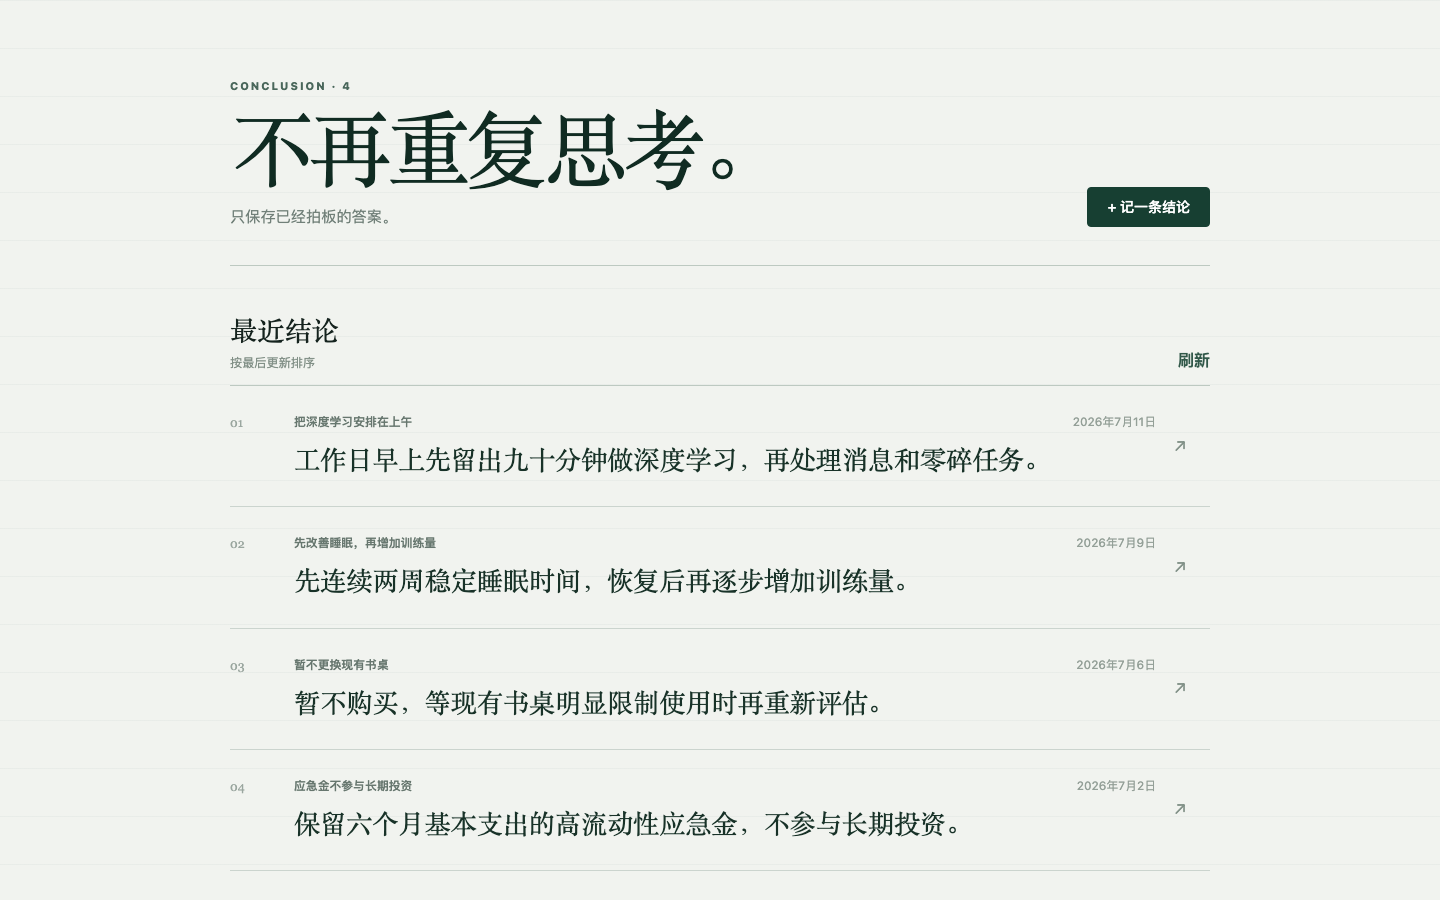
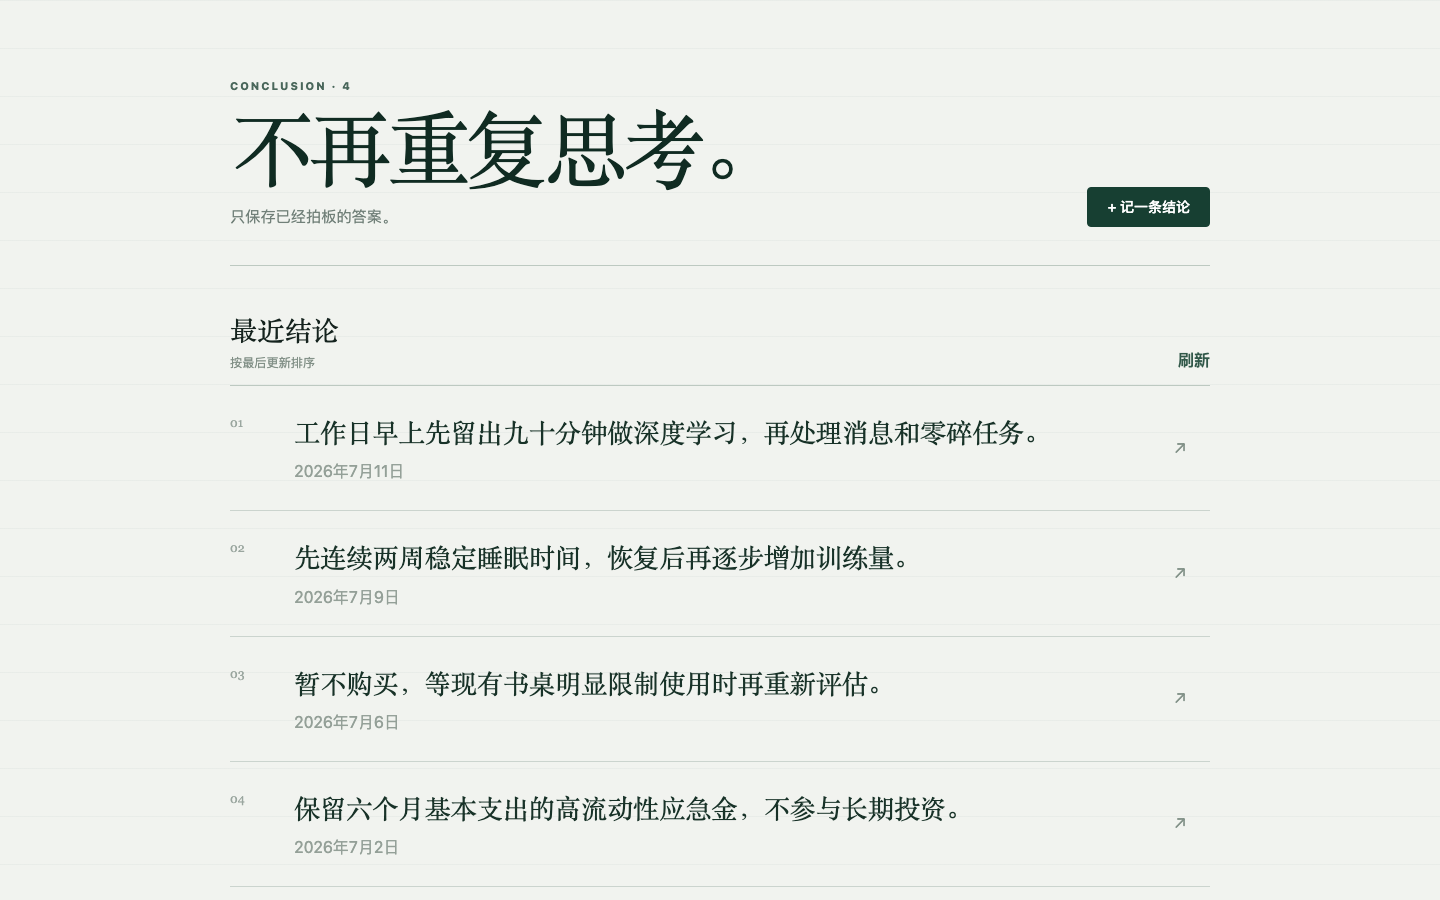
Merge title into conclusion

diff --git a/frontend/src/style.css b/frontend/src/style.css
@@ -175,7 +175,7 @@ textarea {
 }
 
 .decision-statement {
-  margin: 10px 0 0;
+  margin: 0 0 9px;
   color: #183228;
   font-family: Georgia, "Songti SC", serif;
   font-size: clamp(1.22rem, 2.7vw, 1.65rem);
@@ -279,22 +279,9 @@ textarea {
   letter-spacing: -0.035em;
 }
 
-.decision-hero {
-  padding: 22px 0 30px;
-  border-bottom: 1px solid var(--line);
-}
-
-.detail-decision {
-  margin: 0;
-  color: #496158;
-  font-size: clamp(1.1rem, 2.4vw, 1.35rem);
-  font-weight: 550;
-  line-height: 1.65;
-  white-space: pre-wrap;
-}
-
 .markdown-detail {
-  padding: 38px 0 44px;
+  padding: 24px 0 44px;
+  border-top: 1px solid var(--line);
 }
 
 .markdown-detail .md-editor-preview-wrapper {
@@ -820,10 +807,6 @@ textarea {
   .detail-card,
   .form-card {
     padding: 30px 22px;
-  }
-
-  .detail-decision {
-    font-size: 1.05rem;
   }
 
   .question-section,

diff --git a/frontend/src/pages/FormPage.vue b/frontend/src/pages/FormPage.vue
@@ -30,7 +30,7 @@ const form = reactive<ConclusionInput>({
 })
 
 function applyRecord(record: ConclusionInput & { updatedAt: string }) {
-  form.title = record.title
+  form.title = record.conclusion
   form.question = record.question
   form.conclusion = record.conclusion
   form.reason = record.reason
@@ -59,8 +59,7 @@ async function load() {
 
 function validate(): boolean {
   const required: Array<[string, string]> = [
-    [form.title, '请填写标题'],
-    [form.conclusion, '请填写最终结论'],
+    [form.conclusion, '请填写结论'],
     [form.reason, '请填写详细说明'],
   ]
   const missing = required.find(([value]) => !value.trim())
@@ -78,7 +77,9 @@ async function save() {
   try {
     const payload = {
       ...form,
-      question: form.question.trim() || form.title.trim(),
+      title: form.conclusion.trim(),
+      conclusion: form.conclusion.trim(),
+      question: form.question.trim() || form.conclusion.trim(),
       category: form.category.trim() || '其他',
       tags: [...form.tags],
     }
@@ -120,7 +121,7 @@ onMounted(load)
         <div>
           <p class="section-kicker">{{ isEdit ? 'EDIT CONCLUSION' : 'NEW CONCLUSION' }}</p>
           <h1>{{ isEdit ? '编辑结论' : '记下一个答案' }}</h1>
-          <p>一句话说清答案，需要时再补充 Markdown 说明。</p>
+          <p>先写下已经拍板的答案，需要时再补充 Markdown 说明。</p>
         </div>
         <el-button type="primary" size="large" :loading="saving" @click="save">
           {{ isEdit ? '保存修改' : '保存结论' }}
@@ -153,12 +154,7 @@ onMounted(load)
 
         <section class="simple-fields">
           <label>
-            <span>标题</span>
-            <el-input v-model="form.title" maxlength="160" placeholder="例如：衣服材质购买原则" />
-          </label>
-
-          <label>
-            <span>一句话结论</span>
+            <span>结论</span>
             <el-input
               v-model="form.conclusion"
               maxlength="280"

diff --git a/frontend/src/pages/DetailPage.vue b/frontend/src/pages/DetailPage.vue
@@ -50,7 +50,7 @@ async function deleteCurrentConclusion() {
 
   try {
     await ElMessageBox.confirm(
-      `删除「${record.value.title}」后无法恢复。`,
+      `删除「${record.value.conclusion}」后无法恢复。`,
       '确认删除这条结论？',
       {
         confirmButtonText: '删除',
@@ -116,11 +116,7 @@ onMounted(load)
     />
 
     <article v-else-if="record" class="detail-card" data-testid="conclusion-detail">
-      <h1>{{ record.title }}</h1>
-
-      <section class="decision-hero">
-        <p class="detail-decision">{{ record.conclusion }}</p>
-      </section>
+      <h1>{{ record.conclusion }}</h1>
 
       <section class="markdown-detail">
         <MarkdownContent :content="details" preview-id="conclusion-detail-markdown" />

diff --git a/frontend/src/pages/ListPage.vue b/frontend/src/pages/ListPage.vue
@@ -88,11 +88,8 @@ onMounted(load)
         >
           <span class="decision-index">{{ String(index + 1).padStart(2, '0') }}</span>
           <div class="decision-body">
-            <div class="card-meta">
-              <span>{{ item.title }}</span>
-              <span class="updated-at">{{ formatDate(item.updatedAt) }}</span>
-            </div>
             <p class="decision-statement">{{ item.conclusion }}</p>
+            <span class="updated-at">{{ formatDate(item.updatedAt) }}</span>
           </div>
           <span class="row-arrow" aria-hidden="true">↗</span>
         </article>

diff --git a/frontend/src/conclusionMarkdown.test.ts b/frontend/src/conclusionMarkdown.test.ts
@@ -52,7 +52,7 @@ describe('conclusion Markdown detail', () => {
       conclusionMarkdown(
         {
           ...record,
-          question: record.title,
+          question: record.conclusion,
           tradeoffs: '',
           conditions: '',
           decisionAnalysis: { version: 1, models: [] },

diff --git a/frontend/src/conclusionMarkdown.ts b/frontend/src/conclusionMarkdown.ts
@@ -6,7 +6,7 @@ export function conclusionMarkdown(
 ): string {
   const sections = [record.reason.trim()]
 
-  if (record.question.trim() && record.question.trim() !== record.title.trim()) {
+  if (record.question.trim() && record.question.trim() !== record.conclusion.trim()) {
     sections.push(`## 原始问题\n\n${record.question.trim()}`)
   }
   if (record.tradeoffs.trim()) {

diff --git a/README.md b/README.md
@@ -2,7 +2,7 @@
 
 Conclusion 是一个个人决策知识库，用来保存“已经想清楚的最终结论”。当自己或 AI 再次遇到相似问题时，可以直接复用已有决定、理由、取舍和适用条件，而不是从聊天记录中重新寻找或再次分析。
 
-> 当前状态：后端已支持新增、列表、详情、搜索、并发安全更新和删除；Vue 界面只保留标题、一句话结论和 Markdown 详情三个编辑内容，并支持列表、详情、编辑和确认删除。
+> 当前状态：后端已支持新增、列表、详情、搜索、并发安全更新和删除；Vue 界面只保留结论和 Markdown 详情两个编辑内容，并支持列表、详情、编辑和确认删除。
 
 ## Screenshots
 
@@ -41,15 +41,14 @@ Conclusion 是一个个人决策知识库，用来保存“已经想清楚的最
 
 ## 数据结构
 
-网页只要求三个内容：
+网页只要求两个内容：
 
 | 字段 | 含义 |
 | --- | --- |
-| `title` | 标题 |
-| `conclusion` | 最终结论，最多 280 字符的简短纯文本，建议 1–2 句 |
+| `conclusion` | 直接作为标题展示的最终结论，最多 280 字符，建议 1–2 句 |
 | `reason` | Markdown 详情，可自由组织理由、证据、例外和适用条件 |
 
-数据库继续保留 ID、时间、搜索元数据和旧版结构化字段，保证历史记录与 MCP 兼容；它们不再成为网页表单的必填项。旧记录的原始问题、取舍、条件和模型分析会在详情页合并为 Markdown 小节。完整 SQLite 结构和删除语义见 [docs/data-model.md](docs/data-model.md)。
+数据库继续保留 `title`、ID、时间、搜索元数据和旧版结构化字段，保证历史记录与 MCP 兼容。网页保存时会让 `title` 与 `conclusion` 保持一致；旧记录的原始问题、取舍、条件和模型分析会在详情页合并为 Markdown 小节。完整 SQLite 结构和删除语义见 [docs/data-model.md](docs/data-model.md)。
 
 ## AI 思考模型
 